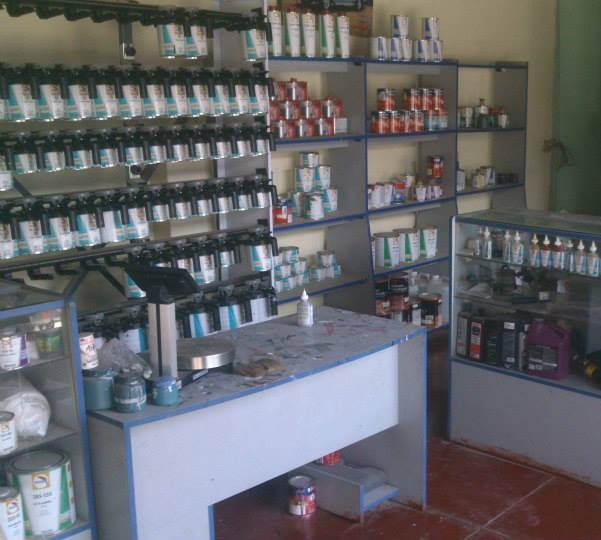
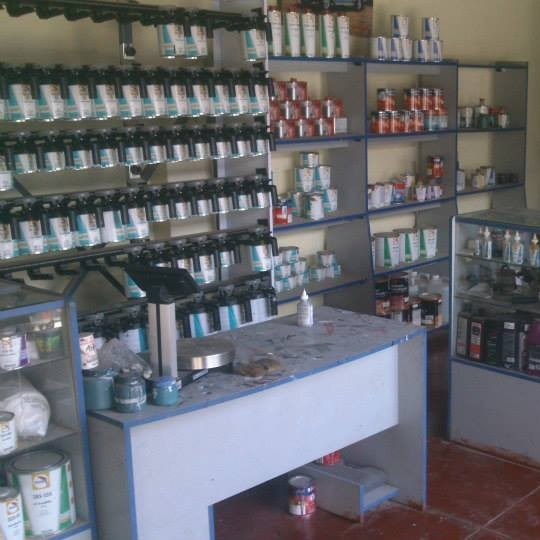
imagenes

diff --git a/app/vistas/inicioVista.php b/app/vistas/inicioVista.php
@@ -88,7 +88,7 @@
         </p>
         <div class="service__grid">
           <div class="service__card">
-            <img src="../../public/img/service-1.jpg" alt="service" />
+            <img src="../../public/img/planchado.jpg" alt="service" />
             <h4>Planchado</h4>
             <p>
               Servicio de planchado especializado para componentes automotrices,
@@ -105,7 +105,7 @@
             </p>
           </div>
           <div class="service__card">
-            <img src="../../public/img/service-3.jpg" alt="service" />
+            <img src="../../public/img/traccionamiento.jpg" alt="service" />
             <h4>Traccionamiento</h4>
             <p>
               Servicio de traccionamiento especializado para mejorar el
@@ -114,7 +114,7 @@
             </p>
           </div>
           <div class="service__card">
-            <img src="../../public/img/service-4.jpg" alt="service" />
+            <img src="../../public/img/mantenimiento.jpg" alt="service" />
             <h4>Mantenimiento</h4>
             <p>
               Servicio de mantenimiento integral para vehículos, garantizando su